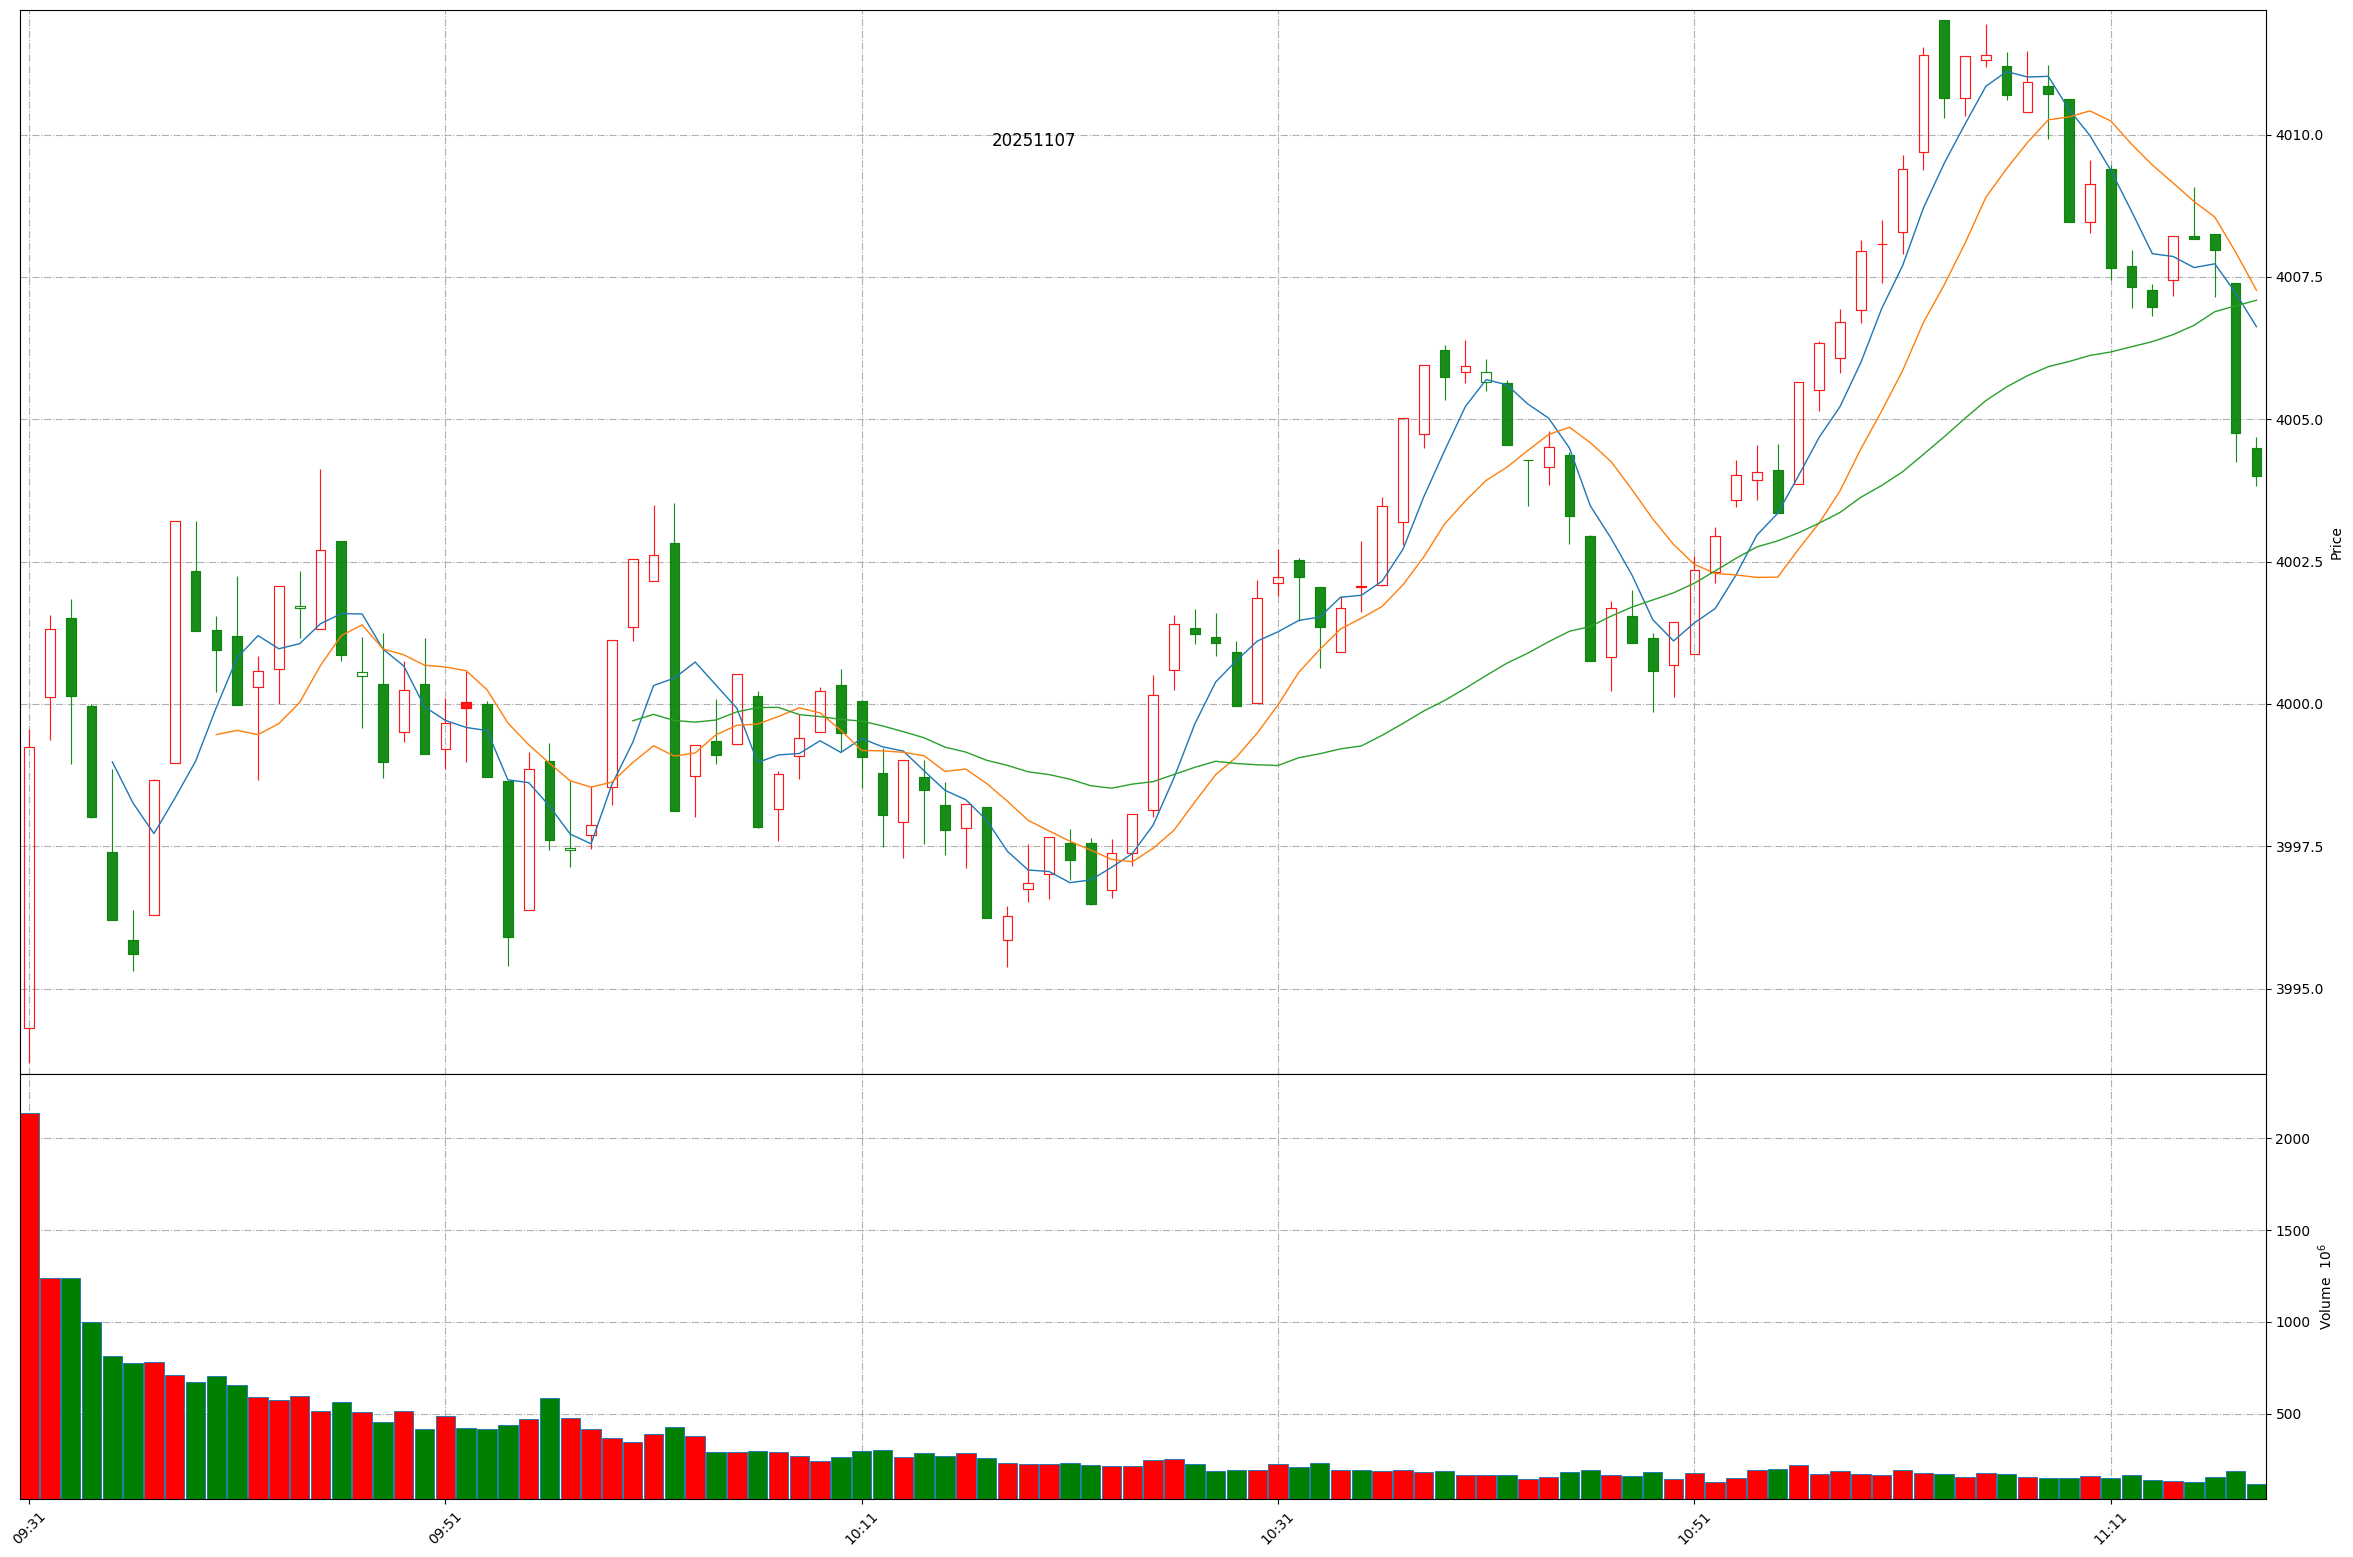
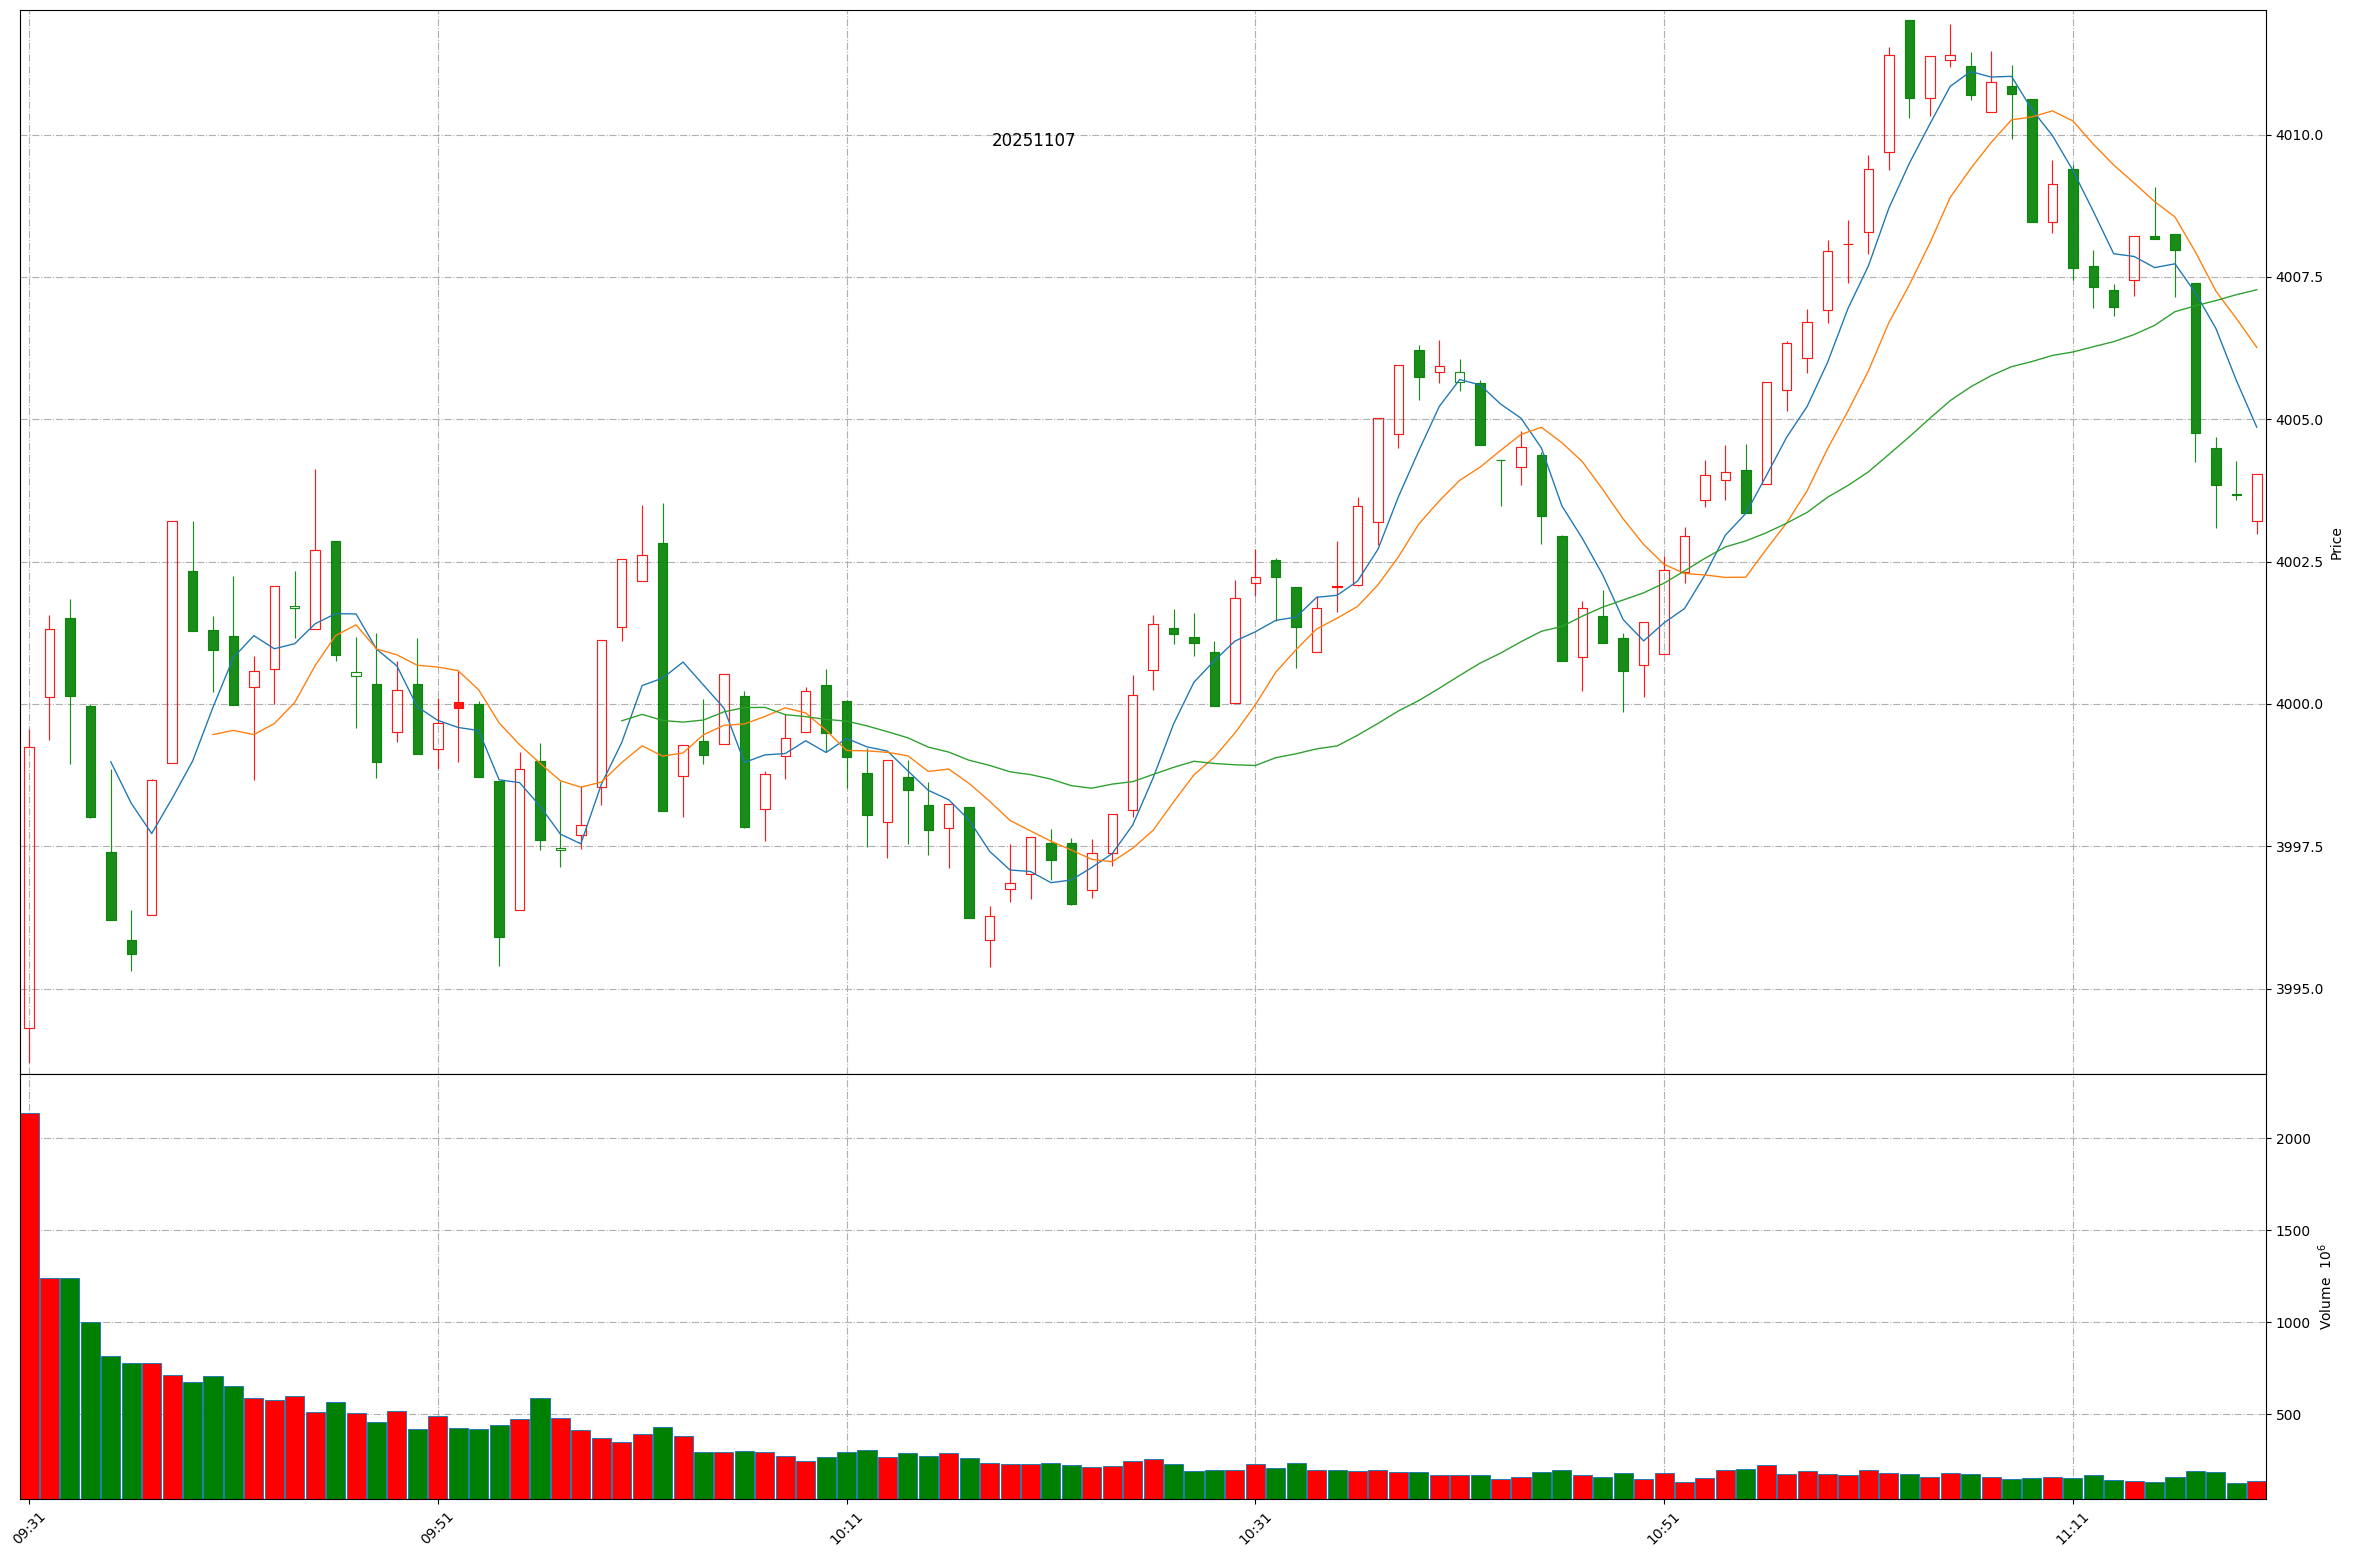
Github action update at 2025-11-07 11:20:33.

diff --git a/README.md b/README.md
@@ -1,11 +1,11 @@
 
 # Daily-A-share-market-quotes 每日 A 股指数（5min 更新）- 20251107
 
-### 上证指数 20251107 11:17
+### 上证指数 20251107 11:20
 ![](./fig/2025/11/20251107-sh000001.png)
 
-### 深证成指 20251107 11:17
+### 深证成指 20251107 11:20
 ![](./fig/2025/11/20251107-sz399001.png)
 
-### 北证50 20251107 11:17
+### 北证50 20251107 11:20
 ![](./fig/2025/11/20251107-bj899050.png)
